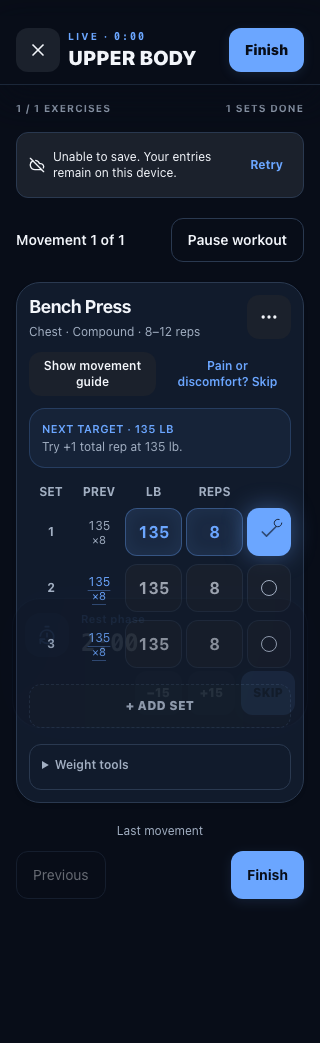
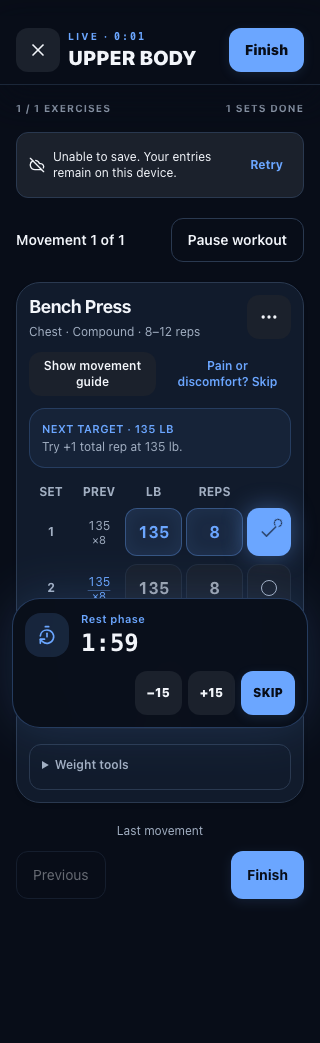
Add free unsigned simulator acceptance and settle final workout evidence

diff --git a/e2e/workout-tools.spec.ts b/e2e/workout-tools.spec.ts
@@ -269,6 +269,10 @@ test("workout save states remain clear and retry preserves the set", async ({ pa
   const retry = page.getByRole("button", { name: "Retry", exact: true });
   await expect(retry).toBeVisible();
   await expect(page.getByLabel("Set 1 weight in pounds", { exact: true })).toHaveValue("135");
+  await expect(page.getByRole("region", { name: "Rest timer", exact: true })).toHaveCSS(
+    "opacity",
+    "1"
+  );
   await page.screenshot({ path: testInfo.outputPath("workout-retry.png"), fullPage: true });
   fixture.fail(false);
   await retry.click();
@@ -291,6 +295,20 @@ test("long names and large previous values fit with enlarged text and reduced vi
   await expect(
     page.getByRole("heading", { name: "Long exercise name for narrow-screen workout logging" })
   ).toBeVisible();
+  const defaultCopy = page.getByRole("button", {
+    name: "Copy previous values for set 1: 1250.5 pounds, 100 reps",
+    exact: true,
+  });
+  await defaultCopy.click();
+  const defaultFits = await page
+    .getByLabel("Set 1 weight in pounds", { exact: true })
+    .evaluate((element) => {
+      const input = element as HTMLInputElement;
+      const context = document.createElement("canvas").getContext("2d")!;
+      context.font = getComputedStyle(input).font;
+      return input.clientWidth >= context.measureText(input.value).width + 8;
+    });
+  expect(defaultFits).toBe(true);
   await page.addStyleTag({ content: "html { font-size: 24px !important; }" });
   const copy = page.getByRole("button", {
     name: "Copy previous values for set 1: 1250.5 pounds, 100 reps",

diff --git a/src/components/workout/RestTimer.tsx b/src/components/workout/RestTimer.tsx
@@ -23,6 +23,8 @@ export default function RestTimer({ endsAt, onAdjust, onSkip }: RestTimerProps) 
     ss = String(remaining % 60).padStart(2, "0");
   return (
     <motion.div
+      role="region"
+      aria-label="Rest timer"
       initial={{ y: 80, opacity: 0 }}
       animate={{ y: 0, opacity: 1 }}
       className="fixed inset-x-3 bottom-3 z-40 mx-auto max-w-[26rem] md:max-w-lg rounded-[1.75rem] border border-primary/30 bg-background/90 p-3 pb-[max(.75rem,env(safe-area-inset-bottom))] shadow-[0_0_50px_hsl(var(--primary)/.16)] backdrop-blur-2xl"

diff --git a/docs/native-acceptance.md b/docs/native-acceptance.md
@@ -10,6 +10,16 @@ This is a separate native track with engineering and owner acceptance still open
 | iOS simulator | Xcode 26.2 and iOS 26.2 simulators are installed. Free bottled CMake was installed; CocoaPods fetched Hermes and Expo pods. An unsigned two-job simulator build failed in `expo-modules-jsi@57.1.1`: two invalid Swift ownership annotations on `RuntimeScheduler` constructors. A disposable two-line local edit cleared that first error but revealed multiple Swift concurrency errors in `JavaScriptRuntime.swift`. No package patch or compiler-safety relaxation was committed. Generated project/config edits were removed; no simulator app ran. | Use the supported toolchain: current Expo SDK 57 documentation requires Xcode 26.4 or newer, while this Mac has 26.2. Rebuild with a compatible toolchain and actually run the app before recording UI, deep-link, media, interruption or accessibility results. Do not patch compiler-safety checks to accommodate an unsupported toolchain. |
 | Physical device and store | No signed build, physical-device run, TestFlight run or privacy-manifest report from an actual IPA. | Owner supplies legal publisher identity, approved bundle IDs, signing/account access, declarations and controlled real-device evidence. Keep signed/OTA release blocked while node-forge signing risk remains. |
 
+## Free hosted simulator check
+
+`Unsigned native simulator` runs only when this repository is public, on GitHub's standard `macos-26` runner with Xcode 26.4.1. It uses a clearly disposable `com.example.limit.simulator` identifier, no Apple account/team, no signing, and no EAS service. Expo generates the native project; CocoaPods and Xcode compile a Release simulator application with signing disabled. The check installs it on an existing iPhone simulator, requires its process to remain running and captures a screenshot. The exact-source JSON and bounded compressed logs/screenshots have one-day artifact retention; no app binary is uploaded.
+
+A passed job establishes compile/process-launch only. The screenshot still needs inspection for a rendered application, and authentication, lifecycle, physical-device and TestFlight acceptance remain separate. It does not clear the node-forge signed/OTA restriction. See the release PR for actual run status; adding a workflow is not a successful build.
+
+Local update assessment: this Mac runs macOS 15.6.1 with Xcode 26.2 and roughly 19 GiB free. Apple's supported Xcode 26.4.1 requires macOS Tahoe 26.2 or later, so a supported local update entails an owner-scheduled operating-system upgrade and sufficient free storage. No OS upgrade, developer agreement, purchase or signing change was performed. Hosted simulator work avoids that local prerequisite.
+
+Sources: [GitHub standard runner availability and free public-repository usage](https://docs.github.com/en/actions/how-tos/write-workflows/choose-where-workflows-run/choose-the-runner-for-a-job), [macOS image toolchain](https://github.com/actions/runner-images/blob/main/images/macos/macos-26-arm64-Readme.md), [Apple Xcode requirements](https://developer.apple.com/xcode/system-requirements), [Expo SDK matrix](https://docs.expo.dev/versions/v57.0.0/).
+
 ## Build preparation
 
 Expo 57 / RN 0.86 / React 19.2.3 exports iOS, Android and web. Web preview uses owner-scoped localStorage drafts and same-origin cookies; the deployed website remains Vite. Native uses SecureStore plus owner-scoped SQLite. Expo web preview requires the Worker API reverse-proxied under its own origin; never weaken API CORS to preview it. The approved logo supplies icons/splash. Safe areas, accessible labels, keyboard avoidance, offline drafts and callback scheme `limit://` exist in source, but packaged-device acceptance remains unverified.

diff --git a/docs/release-recovery.md b/docs/release-recovery.md
@@ -34,7 +34,7 @@ Local regression evidence after the layout/privacy follow-up: 545 unit tests acr
 
 Compact mode removes the redundant previous-session summary and copying instruction; each set retains its own one-tap previous values. Column labels are 12px at default text size. The logger reflows into labeled two-row sets when enlarged text leaves insufficient room, preserving full weight/repetition values. Rest and retry controls have 44px minimum height. The last exercise offers Finish directly.
 
-Twenty-five focused browser checks cover all five widths, both themes, first-use focus, pending save, failed save/retry using the same operation ID, completed/rest state, long names, large values, enlarged text and reduced viewport height. The initial screenshots exposed clipped values and overlapping navigation despite no page overflow; the corrected run adds text-width and button-overlap assertions. Reduced viewport height is browser evidence, not a physical keyboard/device test.
+Twenty-five focused browser checks cover all five widths, both themes, first-use focus, pending save, failed save/retry using the same operation ID, completed/rest state, long names, large values, default and enlarged text and reduced viewport height. The initial screenshots exposed clipped values and overlapping navigation despite no page overflow; the corrected run adds text-width and button-overlap assertions. The 320px/default-text large-value width check also passes before reflow. Rest-state captures wait for the finite panel animation to settle. Reduced viewport height is browser evidence, not a physical keyboard/device test.
 
 - [Compact phone](evidence/workout-compact-final-390.png) and [desktop](evidence/workout-compact-final-1280.png).
 - [Failed save with retained values](evidence/workout-retry-final-320.png) and [saved/rest state](evidence/workout-rest-final-320.png).

diff --git a/docs/owner-operations.md b/docs/owner-operations.md
@@ -1,0 +1,7 @@
+# Owner operations view
+
+The read-only `/owner-ops` web page and `/api/owner-ops` endpoint show the deployed source and Worker version, LIMIT's own free-budget reservations, transactional-email readiness flags, and counts of server errors by date and fixed internal stage. They do not show member records, request bodies, addresses, tokens, or prompts. The endpoint requires a signed-in session whose user ID exactly matches the environment's `OWNER_USER_ID`; with that secret unset, it returns 404 for everyone. The page is intentionally absent from member navigation.
+
+The owner must first identify the intended signed-in LIMIT account and approve granting it this operational access. An authorized operator can then set `OWNER_USER_ID` as a Worker secret separately in testing and production; do not commit its value or derive it from the public support email. This is security-sensitive access and requires action-time owner approval before configuration. Rotate deliberately by changing the secret. No new account is created by the feature.
+
+The headroom meters show application reservations only. Cloudflare account-wide billing and R2 storage may include other buckets, retries, and delayed metrics, and must still be checked in the Cloudflare dashboard before uploads. The errors table is a privacy-safe aggregate of Worker 5xx outcomes in the last seven days. It does not replace Workers observability or reveal error payloads. The D1 migration adds only date, fixed stage, and count; failed aggregate writes never interrupt the user response.

diff --git a/docs/deployment.md b/docs/deployment.md
@@ -15,6 +15,7 @@ Each Worker owns separate AccountCoordinator and LimitCoach SQLite Durable Objec
 | Name | Location | Meaning |
 |---|---|---|
 | BETTER_AUTH_SECRET | Worker secret / local .dev.vars | Random 32+ character session-signing secret; unique per environment |
+| OWNER_USER_ID | Worker secret | Optional exact account ID permitted to view read-only operations; see [owner operations](owner-operations.md) |
 | RESEND_API_KEY | Worker secret | Optional transactional email key |
 | EMAIL_FROM | Wrangler variable | Verified sender address |
 | EMAIL_ENABLED | Wrangler variable | Enable verification on signup and password-reset delivery after sender/key setup |
